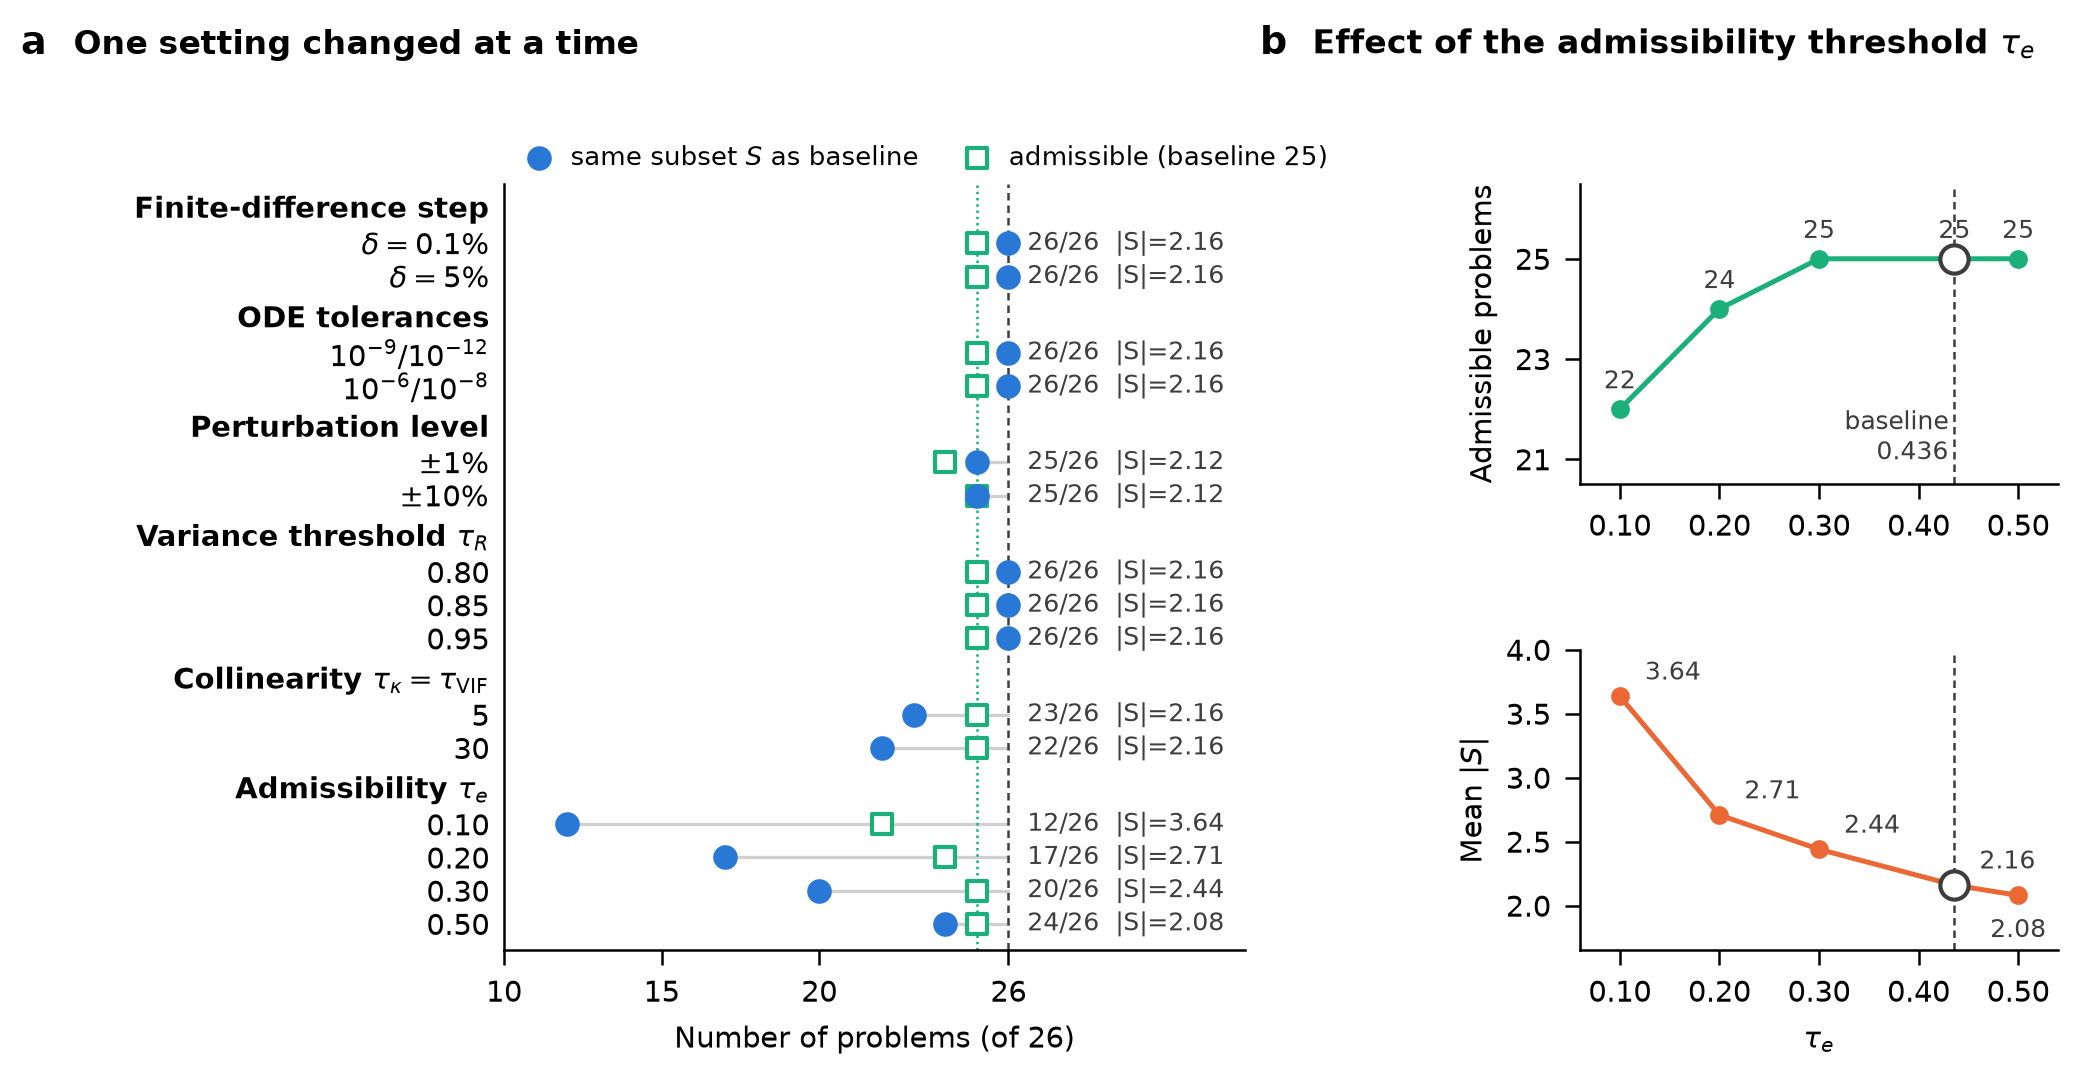
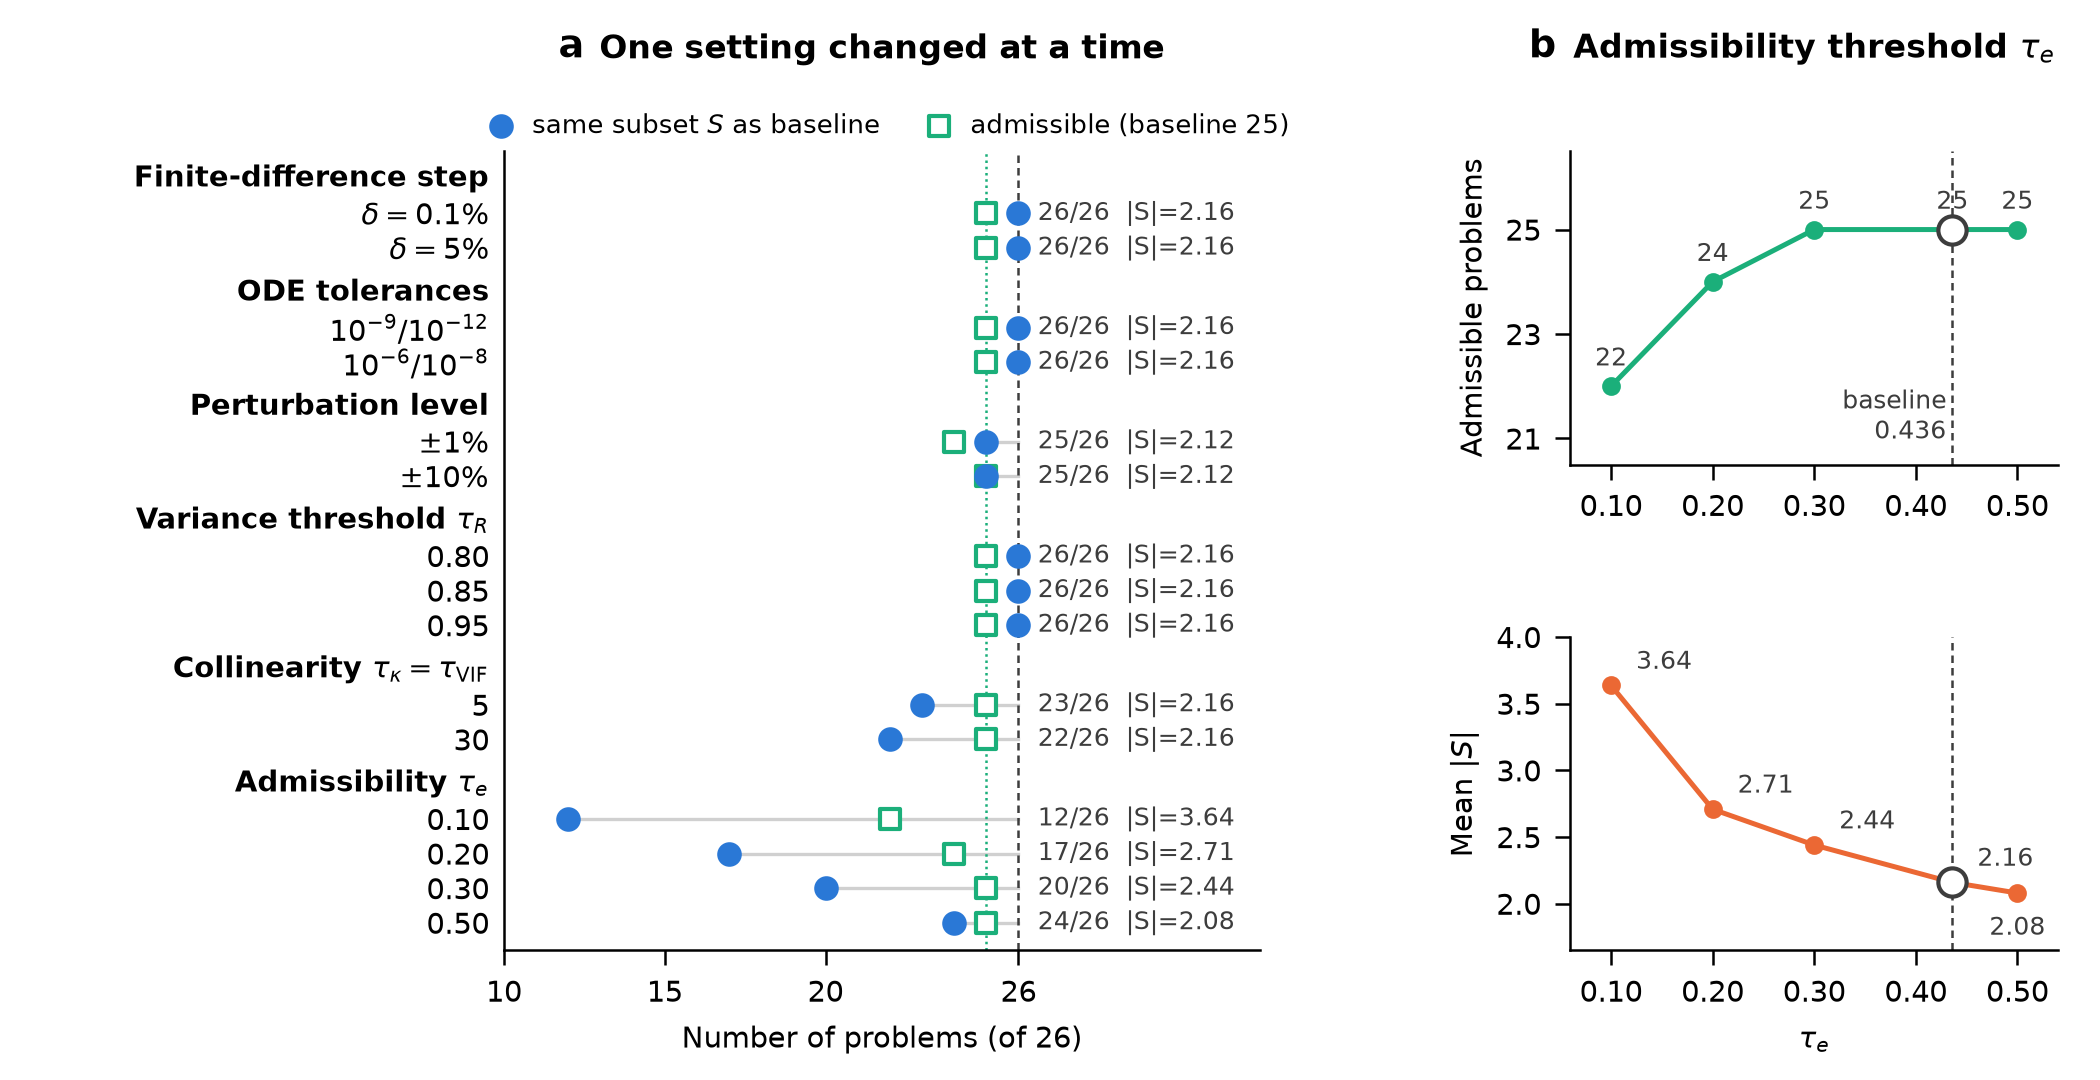
Table 2 figure preview: centre panel titles and legend over the plots
Claude-Session: https://claude.ai/code/session_01CGtKFF44maRu7hoajRT9Sw

diff --git a/paper/scirep/alternativas/make_table2_figure.py b/paper/scirep/alternativas/make_table2_figure.py
@@ -48,7 +48,7 @@ for t, v in T.items():
 print("baseline", B)
 
 fig = plt.figure(figsize=(7.0, 3.6))
-gs = fig.add_gridspec(2, 2, width_ratios=[1.55, 1], hspace=0.55, wspace=0.55, left=0.24, right=0.98, top=0.83, bottom=0.12)
+gs = fig.add_gridspec(2, 2, width_ratios=[1.55, 1], hspace=0.55, wspace=0.5, left=0.24, right=0.98, top=0.86, bottom=0.12)
 ax = fig.add_subplot(gs[:, 0])
 y, ticks, labs, heads = 0, [], [], []
 for gname, g in GROUPS:
@@ -71,15 +71,14 @@ ax.set_xlim(10, N + 7.5); ax.set_xticks([10, 15, 20, N])
 ax.set_xlabel(f"Number of problems (of {N})")
 ax.scatter([], [], s=24, color=BLUE, label="same subset $S$ as baseline")
 ax.scatter([], [], s=22, marker="s", fc="white", ec=GREEN, lw=1.0, label=f"admissible (baseline {B['adm']})")
-ax.legend(loc="lower left", frameon=False, fontsize=6.3, ncol=2, bbox_to_anchor=(-0.02, 0.985), handletextpad=0.2, columnspacing=1.2)
-fig.text(0.01, 0.95, "a", fontsize=9, fontweight="bold")
-fig.text(0.035, 0.95, "One setting changed at a time", fontsize=8, fontweight="bold")
+ax.legend(loc="lower center", frameon=False, fontsize=6.3, ncol=2, bbox_to_anchor=(0.5, 0.985), handletextpad=0.2, columnspacing=1.2)
 
 te = [0.10, 0.20, 0.30, 0.436, 0.50]
 keys = ["emax010", "emax020", "emax030", None, "emax050"]
+bx = []
 get = lambda k, f: B[f] if k is None else T[k][f]
 for i, (f, lab, col) in enumerate([("adm", "Admissible problems", GREEN), ("mean", r"Mean $|S|$", ORANGE)]):
-    a = fig.add_subplot(gs[i, 1])
+    a = fig.add_subplot(gs[i, 1]); bx.append(a)
     vals = [get(k, f) for k in keys]
     a.plot(te, vals, color=col, lw=1.2, marker="o", ms=3.5, zorder=3)
     a.scatter([0.436], [get(None, f)], s=46, fc="white", ec=GREY, lw=1.0, zorder=4)
@@ -91,10 +90,21 @@ for i, (f, lab, col) in enumerate([("adm", "Admissible problems", GREEN), ("mean
     a.set_ylabel(lab)
     if f == "adm":
         a.set_ylim(20.5, 26.5); a.set_yticks([21, 23, 25])
-        fig.text(0.6, 0.95, "b", fontsize=9, fontweight="bold")
-        fig.text(0.625, 0.95, r"Effect of the admissibility threshold $\tau_e$", fontsize=8, fontweight="bold")
         a.text(0.43, 21.0, "baseline\n0.436", fontsize=6, color=GREY, ha="right")
     else:
         a.set_ylim(1.65, 4.0); a.set_xlabel(r"$\tau_e$")
+# panel titles centred over the plotting area of each panel
+fig.canvas.draw()
+r = fig.canvas.get_renderer()
+inv = fig.transFigure.inverted()
+ba = inv.transform_bbox(ax.get_tightbbox(r))
+bb = inv.transform_bbox(matplotlib.transforms.Bbox.union([a.get_tightbbox(r) for a in bx]))
+ytit = max(ba.y1, bb.y1) + 0.03
+pa, pb = ax.get_position(), matplotlib.transforms.Bbox.union([a.get_position() for a in bx])
+for bbx, letter, title in [(pa, "a", "One setting changed at a time"),
+                           (pb, "b", r"Admissibility threshold $\tau_e$")]:
+    t = fig.text((bbx.x0 + bbx.x1) / 2, ytit, title, fontsize=8, fontweight="bold", va="bottom", ha="center")
+    x0 = inv.transform_bbox(t.get_window_extent(r)).x0
+    fig.text(x0 - 0.008, ytit, letter, fontsize=9, fontweight="bold", va="bottom", ha="right")
 fig.savefig(HERE / "fig_table2_settings_preview.pdf")
 fig.savefig(HERE / "fig_table2_settings_preview.png", dpi=300)
